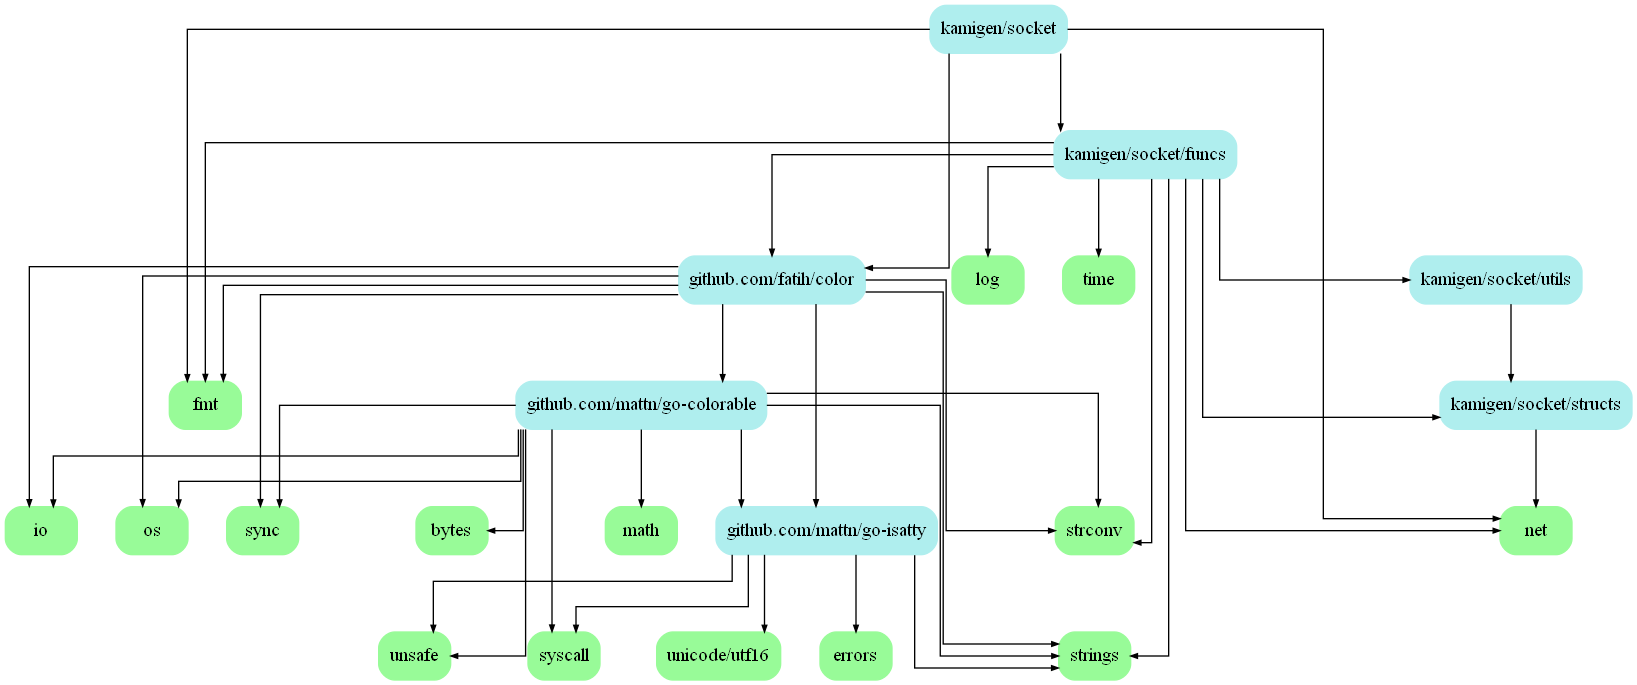
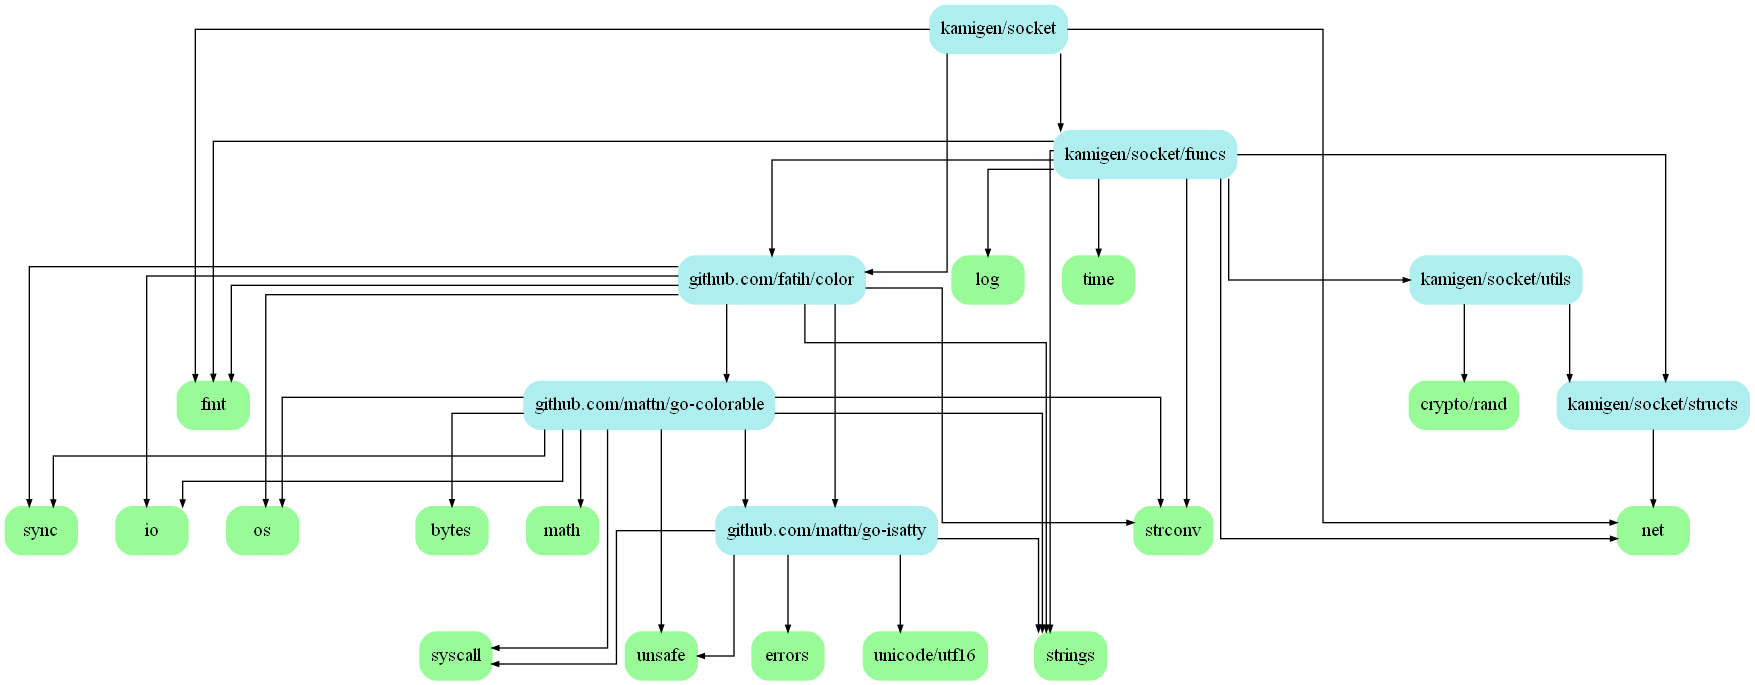
wip: Flag packet system

diff --git a/client.js b/client.js
@@ -5,7 +5,7 @@ const client = net.createConnection({
     port: 1984
 }, () => {
     console.log("connected to server")
-    //client.write(Buffer.from("5 70 1 1 Kamigen password"))
+    client.write(Buffer.from("13 0"))
     process.stdin.pipe(client)
     client.on("data", (data) => {
         console.log(data.toString())

diff --git a/funcs/HandleCommand.go b/funcs/HandleCommand.go
@@ -37,67 +37,106 @@ func HandleCommand(connection *net.Conn, command *[]byte) {
 	// Store the request data in a splited array.
 	request := strings.Fields(string(cmd))
 	// Store the arguments of the request
-	args := utils.GetArgs(request[1:])
+	args := utils.GetArgs(request[2:])
 	// TODO: Get more arguments from the request.
-	intV, err := strconv.Atoi(request[0])
+	packetByte, _ := strconv.Atoi(request[0])
+	packetFlag, _ := strconv.Atoi(request[1])
 	// Store the command in a ClientCommands struct.
-	cCom := structs.ClientCommand{Byte: byte(intV), Args: args}
+	cCom := structs.ClientCommand{Byte: byte(packetByte), Flag: byte(packetFlag), Args: args}
 	for _, v := range args {
 		fmt.Println(string(v))
 	}
-	fmt.Println(intV, byte(intV), err)
 	fmt.Println(cCom.GetPacketName(), cCom)
 	message := utils.ByteArraysExtract(utils.GetArgs(request))
 
-	switch cCom.Byte {
-	case 0x05:
-		// Register the client
-		// Remove whitespaces from the name.
-		name := strings.TrimSpace(string(args[0]))
-		password := strings.TrimSpace(string(args[1]))
-		client := structs.Client{Name: name, Conn: con, Password: password}
-		structs.Clients = append(structs.Clients, &client)
-		fmt.Println(client)
-		_, err := con.Write(message)
-		if err != nil {
-			log.Fatal(err)
-			return
-		}
-		con.Write([]byte{'\n'})
-		break
-	case 0x07:
-		// Broadcast the message to all listeners.
-		c := utils.GetClient(string(args[0]))
-		_, e := c.Conn.Write(message)
-		if e != nil {
-			fmt.Println(e)
-		}
-		c.Conn.Write([]byte{'\n'})
-	case 0x09:
-		// Send chat message
-		// Get the message from the arguments and add them to a byte array with a space between them.
-		fmt.Println("Broadcasting:", string(message))
-		c := utils.GetClient(string(args[0]))
-		i, e := c.Conn.Write(message)
-		if e != nil {
-			fmt.Println(e)
-		}
-		c.Conn.Write([]byte{'\n'})
+	switch cCom.Flag {
+	case 0x00:
+		{
+			// Server side
+			switch cCom.Byte {
+			case 0x0D:
+				{
+					// Register the listener
+					listeners := *structs.Listeners
+					// Get random bytes for the listener id.
+					id := utils.GetRandomBytes(16)
 
-		fmt.Println("Bytes sent:", i)
-		break
-	case 0x0A:
-		// Send chat message
-		// Get the message from the arguments and add them to a byte array with a space between them.
-		fmt.Println("Broadcasting:", string(message))
-		c := utils.GetClient(string(args[0]))
-		i, e := c.Conn.Write(message)
-		if e != nil {
-			fmt.Println(e)
-		}
-		c.Conn.Write([]byte{'\n'})
+					fmt.Println("Registering listener with id:", id, "(", string(id), ")")
 
-		fmt.Println("Bytes sent:", i)
-		break
+					listener := structs.Listener{Hash: id, Conn: con}
+
+					listeners = append(listeners, &listener)
+				}
+			case 0x05:
+				{
+					// Register the client
+					// Remove whitespaces from the name.
+					name := strings.TrimSpace(string(args[0]))
+					password := strings.TrimSpace(string(args[1]))
+					client := structs.Client{Name: name, Conn: con, Password: password}
+					clients := *structs.Clients
+					clients = append(clients, &client)
+					fmt.Println(client)
+					_, err := con.Write(message)
+					if err != nil {
+						log.Fatal(err)
+						return
+					}
+					con.Write([]byte{'\n'})
+				}
+			}
+		}
+	case 0x01:
+		{
+			// Client side
+			switch cCom.Byte {
+			case 0x07:
+				{
+					// Broadcast the message to all listeners.
+					utils.BroadcastListeners(message)
+
+					/* if l != nil {
+						for _, v := range l {
+							v.Write(message)
+						}
+					}
+					*/
+
+				}
+			}
+		}
+	case 0x02:
+		{
+			// Game side
+			switch cCom.Byte {
+			case 0x09:
+				// Send chat message
+				c := utils.GetClient(string(args[0]))
+				i, e := c.Conn.Write(message)
+				if e != nil {
+					fmt.Println(e)
+				}
+				c.Conn.Write([]byte{'\n'})
+
+				fmt.Println("Bytes sent:", i)
+				break
+			case 0x0A:
+				// Send chat message
+				c := utils.GetClient(string(args[0]))
+				i, e := c.Conn.Write(message)
+				if e != nil {
+					fmt.Println(e)
+				}
+				c.Conn.Write([]byte{'\n'})
+
+				fmt.Println("Bytes sent:", i)
+				break
+			}
+		}
+	case 0x03:
+		{
+			// Client & Game side
+		}
 	}
+
 }

diff --git a/utils/Broadcast.go b/utils/Broadcast.go
@@ -4,12 +4,26 @@ import (
 	"kamigen/socket/structs"
 )
 
-func Broadcast(message []byte) {
-	clients := structs.Clients
+// BroadcastWorkers Broadcast message to all workers
+func BroadcastWorkers(message []byte) {
+	clients := *structs.Clients
 	for client := range clients {
 		_, err := clients[client].Conn.Write(message)
 		if err != nil {
 			return
 		}
+		clients[client].Conn.Write([]byte{'\n'})
+	}
+}
+
+// BroadcastListeners Broadcast message to all listeners
+func BroadcastListeners(message []byte) {
+	listeners := *structs.Listeners
+	for client := range listeners {
+		_, err := listeners[client].Conn.Write(message)
+		if err != nil {
+			return
+		}
+		listeners[client].Conn.Write([]byte{'\n'})
 	}
 }

diff --git a/structs/Packets.go b/structs/Packets.go
@@ -14,4 +14,6 @@ var Packets = map[string]byte{
 	"BARITONE":          0x0A, // user->server<->client Notifies the server that the user wants to send a baritone command.
 	"LAMBDA":            0x0B, // user->server<->client Notifies the server that the user wants to send a lambda command.
 	"ERROR":             0x0C, // client<->server<->user Notifies the user that the server or the client has encountered an error.
+	"LISTENER_ADD":      0x0D, // user<->server Notifies the server that a listener has been added.
+	"LISTENER_REMOVE":   0x0E, // user<->server Notifies the server that a listener has been removed.
 }

diff --git a/utils/GetClient.go b/utils/GetClient.go
@@ -5,11 +5,12 @@ import (
 )
 
 // GetClient Get pointer of struct by name
-func GetClient(name string) *structs.Client {
-	for _, v := range structs.Clients {
+func GetClient(name string) structs.Client {
+	clients := *structs.Clients
+	for _, v := range clients {
 		if v.Name == name {
-			return v
+			return *v
 		}
 	}
-	return &structs.Client{}
+	return *&structs.Client{}
 }

diff --git a/funcs/HandleRequest.go b/funcs/HandleRequest.go
@@ -2,15 +2,12 @@ package funcs
 
 import (
 	"github.com/fatih/color"
-	"kamigen/socket/structs"
 	"log"
 	"net"
 )
 
 func HandleRequest(conn net.Conn) {
 	color.New(color.FgGreen, color.Bold).Println("New connection from:", conn.RemoteAddr().String())
-	listeners := structs.Listeners
-	listeners = append(listeners, &conn)
 	for {
 		buffer := make([]byte, 1024)
 

diff --git a/funcs/KeepAlive.go b/funcs/KeepAlive.go
@@ -8,7 +8,7 @@ import (
 // KeepAlive Keep clients alive
 func KeepAlive() {
 	for {
-		clients := structs.Clients
+		clients := *structs.Clients
 		for client := range clients {
 			clients[client].Conn.SetDeadline(time.Now().Add(time.Second * 5))
 			_, err := clients[client].Conn.Write([]byte{'\n'})

diff --git a/structs/Listener.go b/structs/Listener.go
@@ -1,0 +1,14 @@
+package structs
+
+import "net"
+
+type Listener struct {
+	// The hash of the listener.
+	Hash []byte
+	// The type of the listener.
+	// Type string
+	// The status of the listener.
+	// Status string
+	// The connection of the listener.
+	Conn net.Conn
+}

diff --git a/socket.go b/socket.go
@@ -33,7 +33,7 @@ func main() {
 		}
 
 		// Execute the keepAlive function in a new goroutine
-		go funcs.KeepAlive()
+		// go funcs.KeepAlive()
 		// Execute the handleRequest function in a new goroutine
 		go funcs.HandleRequest(conn)
 	}

diff --git a/utils/GetRandomBytes.go b/utils/GetRandomBytes.go
@@ -1,0 +1,12 @@
+package utils
+
+import "crypto/rand"
+
+func GetRandomBytes(length int) []byte {
+	b := make([]byte, length)
+	_, err := rand.Read(b)
+	if err != nil {
+		return nil
+	}
+	return b
+}

diff --git a/structs/ClientCommand.go b/structs/ClientCommand.go
@@ -3,6 +3,8 @@ package structs
 type ClientCommand struct {
 	// The byte of the command.
 	Byte byte
+	// The flags of the command.
+	Flag byte
 	// The arguments of the command.
 	Args [][]byte
 }

diff --git a/structs/Listeners.go b/structs/Listeners.go
@@ -1,5 +1,3 @@
 package structs
 
-import "net"
-
-var Listeners []*net.Conn
+var Listeners *[]*Listener
